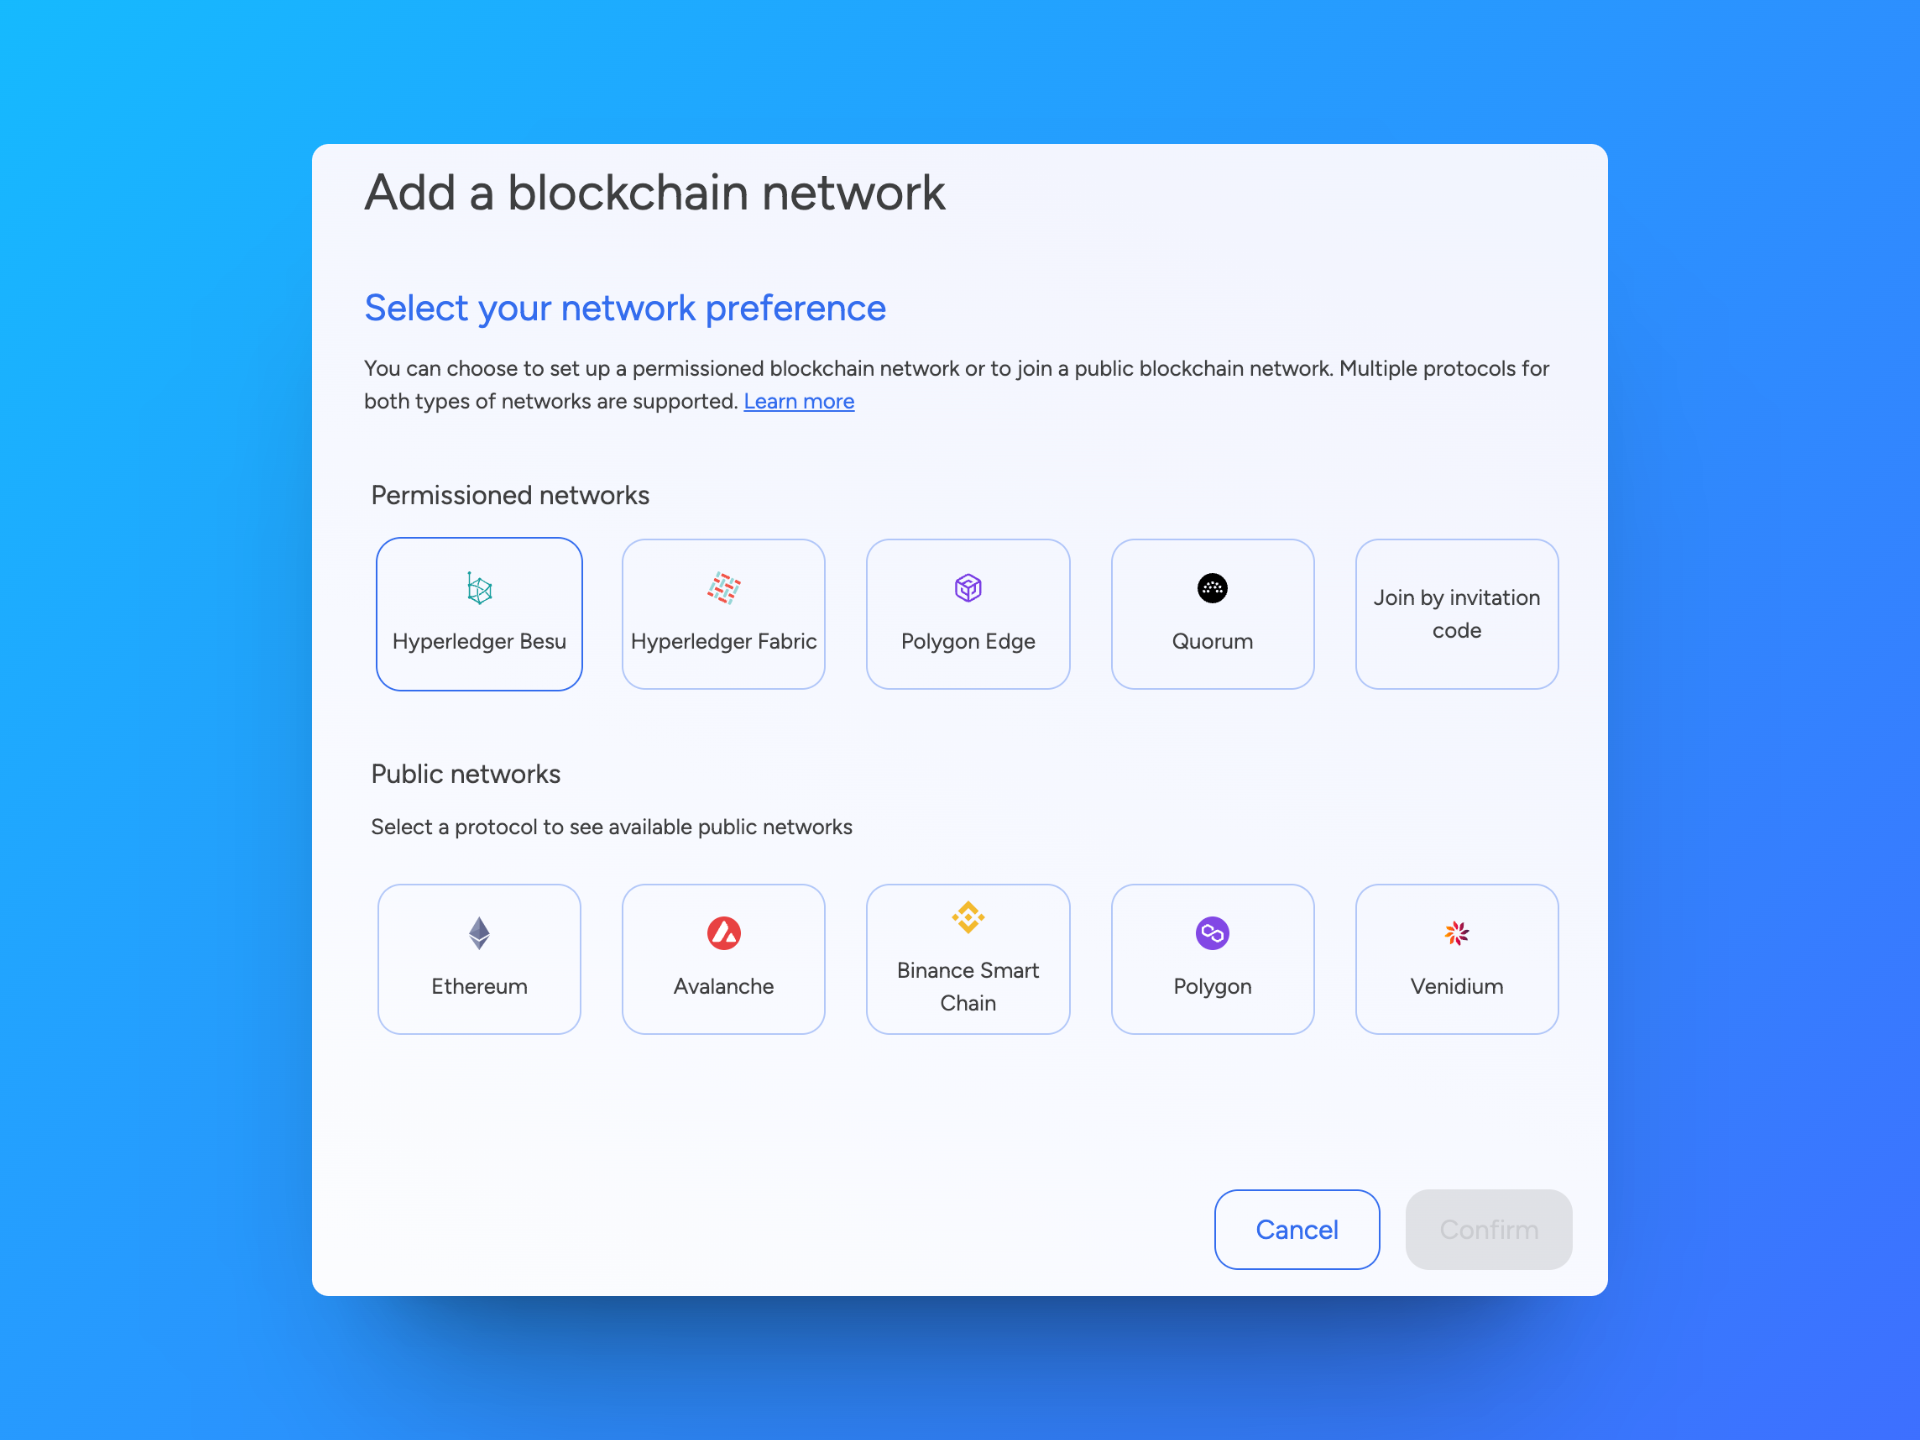
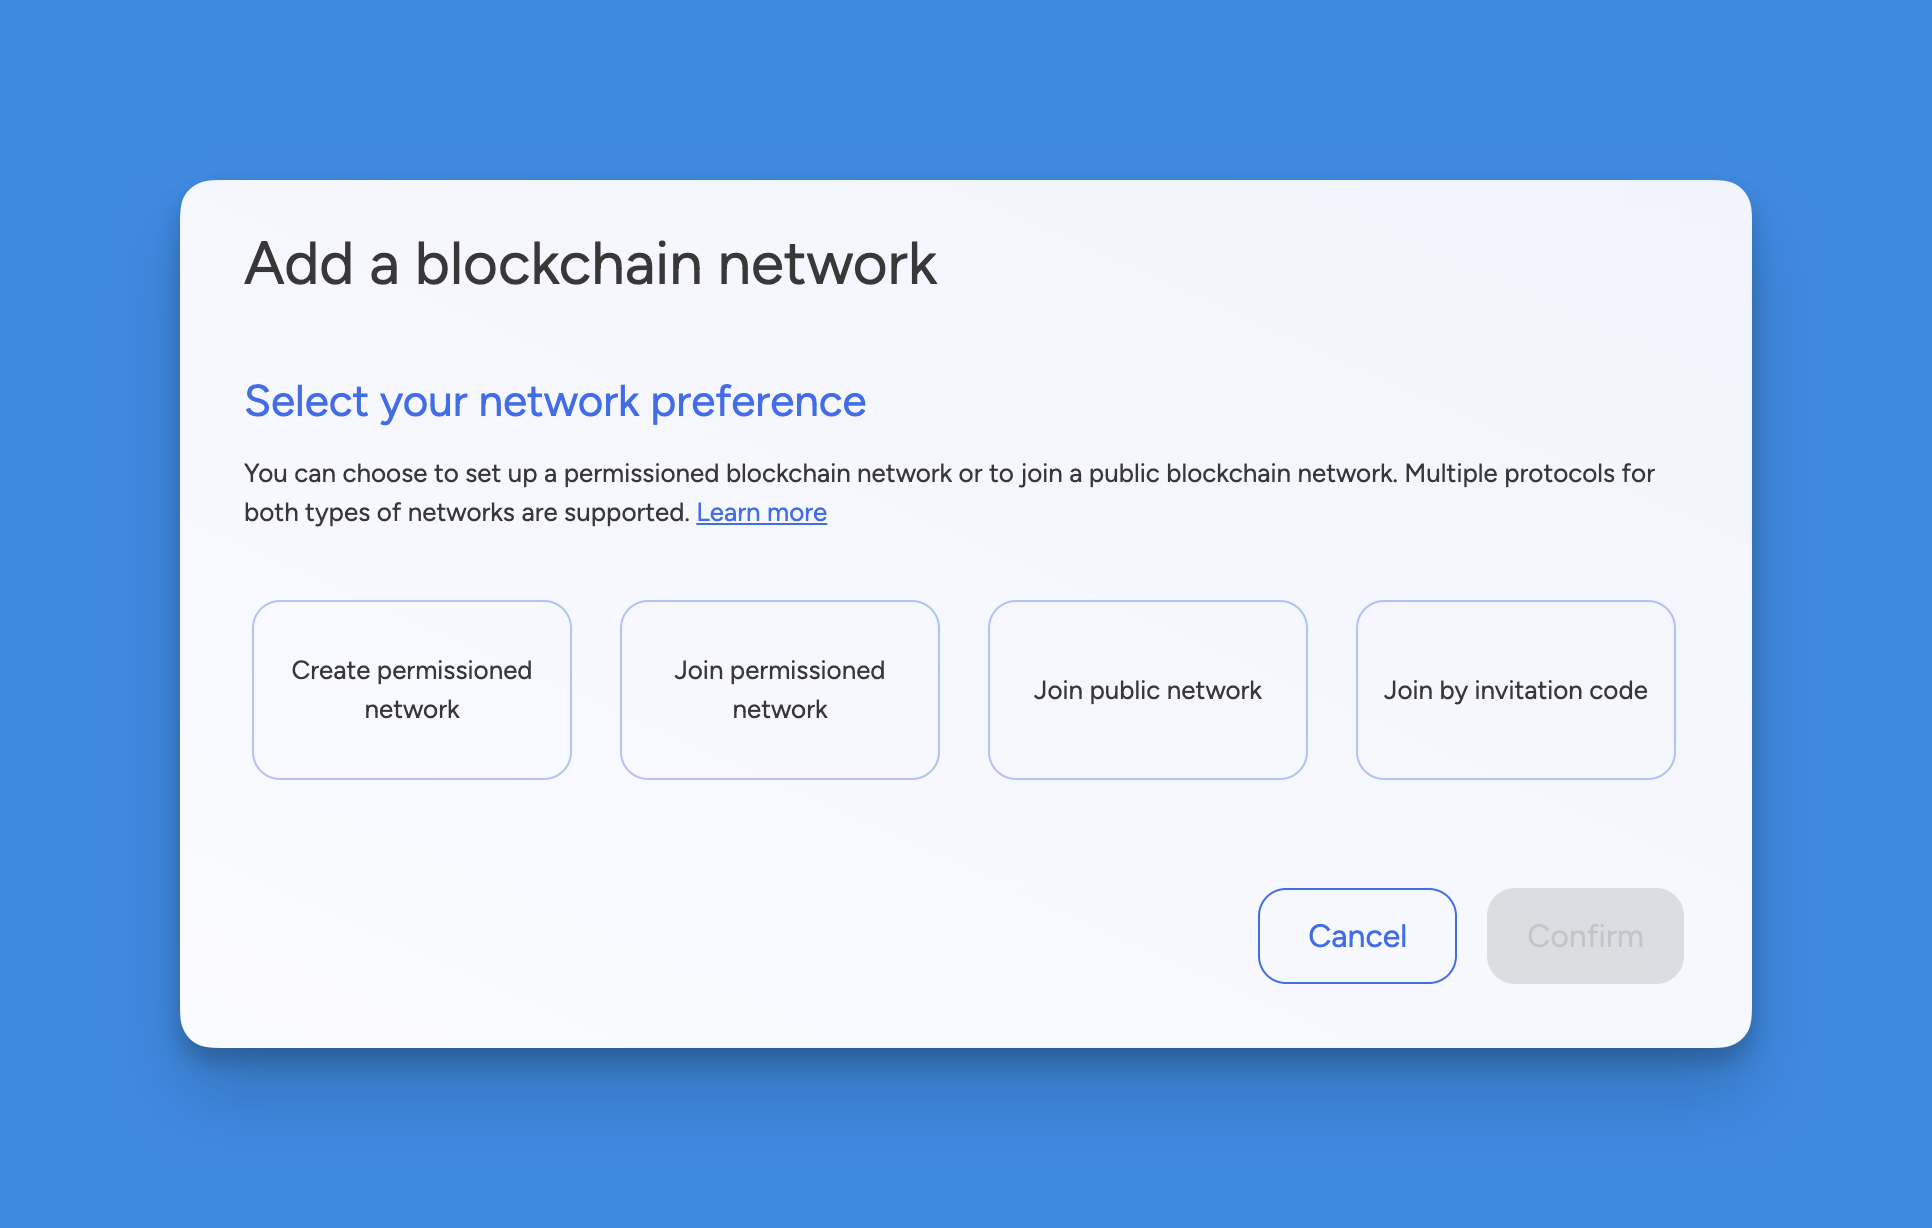
fix: update add a network, join by invitation code docs (#74)
Branches from: https://github.com/settlemint/docs/pull/73

<!-- Generated by sourcery-ai[bot]: start summary -->

## Summary by Sourcery

Revise and expand the documentation for adding networks to applications,
joining networks by invitation code, and connecting to external networks
and nodes. Introduce a new guide for integrating with external networks
using the SettleMint platform, and update existing guides with clearer
instructions and updated API references.

Documentation:
- Updated the documentation to include instructions for joining a
permissioned blockchain network using an invitation code and clarified
the process for adding a network to an application.
- Added a new guide on connecting to an external network using the
SettleMint platform, detailing prerequisites, joining a network, adding
nodes, and managing validators.
- Revised the guide on connecting to an external node, including updates
to the API method references for proposing validator votes.

<!-- Generated by sourcery-ai[bot]: end summary -->

<!-- This is an auto-generated comment: release notes by coderabbit.ai
-->
## Summary by CodeRabbit

## Summary by CodeRabbit

- **Documentation**
- Enhanced clarity in instructions for joining a blockchain network via
invitation code, improving user experience.
- Updated guides for connecting external nodes to Hyperledger Besu,
including terminology changes and updated references.
- Introduced a new document detailing the process for connecting the
[…]

diff --git a/docs/using-platform/1_add-a-network-to-an-application.md b/docs/using-platform/1_add-a-network-to-an-application.md
@@ -6,17 +6,23 @@ sidebar_position: 2
 
 # Add a network to an application
 
-Before setting up a blockchain network, make sure you have an application in place. You will always need to [create an application](0_create-an-application.md) first, as this is the context in which you organize networks, nodes, smart contract sets, etc.
+Before setting up a blockchain network, ensure you have an application in place. You must always [create an application](0_create-an-application.md) first, as this provides the context for organizing networks, nodes, smart contract sets, etc.
 
 ## Permissioned and public blockchain networks
 
 ![Add A Blockchain Network](../../static/img/about-settlemint/add-network.png)
 
-You can choose to set up a **permissioned blockchain network** or to **join a public blockchain network**.
+You can choose to **create a permissioned blockchain network**, **join a public blockchain network**, **join a permissioned blockchain network**, or join an existing network in SettleMint **with an invitation code**.
 
-In a public blockchain network, anyone is free to join and participate in the activities of the network. In a permissioned blockchain network (often called a consortium network), participants need to obtain permission to become part of the network. The owner of the network dictates who can or cannot join, and allocates a set of permissions to participants.
+In a public blockchain network, anyone can freely join and participate in the network's activities. In a permissioned blockchain network (often called a consortium network), participants need permission to join. The network owner dictates who can join and allocates a set of permissions to participants.
 
 SettleMint supports **multiple protocols** for both types of networks. You can learn more about these protocols in the blockchain guides included in this documentation.
+
+Permissioned networks:
+
+- [Hyperledger Besu](../blockchain-guides/1_Hyperledger-Besu/1_enterprise-ethereum-the-basics.md)
+- [Hyperledger Fabric](../blockchain-guides/5_Hyperledger-Fabric/1_hyperledger-fabric-the-basics.md)
+- [Polygon Edge](../blockchain-guides/6_Polygon-Edge/1_polygon-edge-the-basics.md)
 
 Public networks (Mainnets & Testnets):
 
@@ -25,59 +31,59 @@ Public networks (Mainnets & Testnets):
 - [Binance Smart Chain](../blockchain-guides/3_Binance-Smart-Chain/1_binance-smart-chain-the-basics.md)
 - [Polygon](../blockchain-guides/4_Polygon/1_polygon-the-basics.md)
 
-Permissioned networks:
+Joining a permissioned network:
 
-- [Hyperledger Besu](../blockchain-guides/1_Hyperledger-Besu/1_enterprise-ethereum-the-basics.md)
-- [Hyperledger Fabric](../blockchain-guides/5_Hyperledger-Fabric/1_hyperledger-fabric-the-basics.md)
-- [Polygon Edge](../blockchain-guides/6_Polygon-Edge/1_polygon-edge-the-basics.md)
+- [How to join an external permissioned network](../blockchain-guides/1_Hyperledger-Besu/9_enterprise-ethereum-connect-external-network.md)
+
+Joining a network with an invitation code:
+
+- [How to join an existing network in SettleMint with an invitation code](./4_join-a-network-by-invitation.md). For more information on inviting network participants, see [how to invite network participants](./3_invite-network-participants.md).
 
 ## How to add a blockchain network
 
-This section describes the general flow for setting up a blockchain network. For protocol-specific information, we refer to the relevant sections in the blockchain guides.
+This section describes the general process for setting up a blockchain network. For protocol-specific information, please refer to the relevant sections in the blockchain guides.
 
-Navigate to the **application** in which you will create the network. You can get there by clicking the **grid icon** in the upper right corner, and then clicking the **application name** to go to the application dashboard.
+Navigate to the **application** where you will create the network. Click the **grid icon** in the upper right corner, then click the **application name** to go to the application dashboard.
 
-The application dashboard is still empty. This will change once you added your first blockchain network and node. Click **Start here**, or click **Blockchain networks** in the left navigation.
+The application dashboard is initially empty. This will change once you add your first blockchain network and node. Click **Start here**, or click **Blockchain networks** in the left navigation.
 
-Click **Add blockchain network**. This opens a form.
+Click **Add blockchain network** to open a form.
 
 Follow these steps to set up the blockchain network:
 
-1. First **select the protocol** of your choice and click **Continue**.
-2. Choose a **network name** and a **node name**. Choose names that are easily recognizable in your dashboards. If you are joining a public network, you do not need to provide a network name.
+1. **Select the protocol** of your choice and click **Continue**.
+2. Choose a **network name** and a **node name**. Use names that are easily recognizable in your dashboards. If you are joining a public network, you do not need to provide a network name.
 
-:::info Note
+:::info
 
-Your network needs minimum 1 validating node to be operational. Therefore, we will already deploy 1 validating node to your network. You can [add more nodes](2_add-a-node-to-a-network.md) later.
+Note that your network requires at least 1 validating node to be operational. We will deploy 1 validating node to your network initially. You can [add more nodes](2_add-a-node-to-a-network.md) later.
 
 :::
 
-1. Choose a **deployment plan**. Select the type, cloud provider, region and resource pack. [More about deployment plans](../launch-platform/managed-cloud-deployment/13_deployment-plans.md)
-2. Only for [Hyperledger Besu](../blockchain-guides/1_Hyperledger-Besu/2_enterprise-ethereum-network-settings.md) and [Hyperledger Fabric](../blockchain-guides/5_Hyperledger-Fabric/2_hyperledger-fabric-network-settings.md), and optional: **Configure the network settings.** You can choose to keep the default settings, or configure them according to your own preferences. Be aware that these settings cannot be changed once your network is deployed.
-3. You can see the **resource costs** associated with this network displayed at the bottom of the form. Click **Confirm** to add the network to your application.
+3. Choose a **deployment plan**. Select the type, cloud provider, region, and resource pack. [Learn more about deployment plans](../launch-platform/managed-cloud-deployment/13_deployment-plans.md)
+4. For [Hyperledger Besu](../blockchain-guides/1_Hyperledger-Besu/2_enterprise-ethereum-network-settings.md) and [Hyperledger Fabric](../blockchain-guides/5_Hyperledger-Fabric/2_hyperledger-fabric-network-settings.md) only (optional): **Configure the network settings**. You can keep the default settings or configure them according to your preferences. Note that these settings cannot be changed once your network is deployed.
+5. Review the **resource costs** associated with this network displayed at the bottom of the form. Click **Confirm** to add the network to your application.
 
-The network is now added to the **blockchain network overview** with the status "deploying". When your network is fully deployed, the status will change to "running". This will only take a few minutes. You can click the network in the overview list to see detailed information, e.g. stats, usage metrics, logs, network participants, etc. Depending on the protocol, different network information will be available.
+The network is now added to the **blockchain network overview** with the status "deploying". When your network is fully deployed, the status will change to "running". This typically takes a few minutes. Click the network in the overview list to see detailed information, such as stats, usage metrics, logs, network participants, etc. Available network information varies depending on the protocol.
 
-Navigate to the **Blockchain nodes** section of the application to see the **first node** that was deployed together with the network. You can click this node in the overview list to see detailed information, e.g. stats, usage metrics, connection info, logs, etc.
+Navigate to the **Blockchain nodes** section of the application to see the **first node** that was deployed with the network. Click this node in the overview list to see detailed information, such as stats, usage metrics, connection info, logs, etc. Available node information varies depending on the protocol.
 
-Depending on the protocol, different node information will be available.
-
-Now you can start [adding more nodes](2_add-a-node-to-a-network.md).
+You can now start [adding more nodes](2_add-a-node-to-a-network.md).
 
 ## Manage a network
 
 ![Manage Network](../../static/img/about-settlemint/manage-network.png)
 
-Navigate to the **application** in which the blockchain network is created. Click **Blockchain networks** in the left navigation, and then choose the network from the overview list.
+Navigate to the **application** containing the blockchain network. Click **Blockchain networks** in the left navigation, then choose the network from the overview list.
 
 Click **Manage network** to see the available actions. You can only perform these actions if you have administrator rights.
 
 - **Leave Network** - Removes the network from the application
-- **Pause Network** - Pauses the network from operation.
-- **Upgrade or re-apply config** -Retry deploying the network or adds more resources.
+- **Pause Network** - Pauses the network's operation
+- **Upgrade or re-apply config** - Retries deploying the network or adds more resources
 
 :::warning Warning
 
-You can only delete a blockchain network when it has no more resources (e.g. nodes, smart contract sets, etc.) related to it. Resources first have to be deleted one by one.
+You can only delete a blockchain network when it has no more associated resources (e.g., nodes, smart contract sets, etc.). Resources must be deleted one by one first.
 
 :::

diff --git a/docs/using-platform/4_join-a-network-by-invitation.md b/docs/using-platform/4_join-a-network-by-invitation.md
@@ -8,7 +8,7 @@ Follow these steps if you received an invitation to join a blockchain network:
 2. Navigate to an existing blockchain application, or create a new one.
 3. Click **Blockchain network** in the left navigation.
 4. Click **Add a blockchain network**. This will open a form.
-5. In the section "Permissioned network", click **Join by invitation code**, and then click **Continue**.
+5. Choose **Join by invitation code**, and then click **Continue**.
 6. Enter the **invitation code** included in the email you received, and click **Confirm**. The network now appears in the overview. Click to see more details of the network.
 
 You can now start [adding nodes to the network](2_add-a-node-to-a-network.md).
